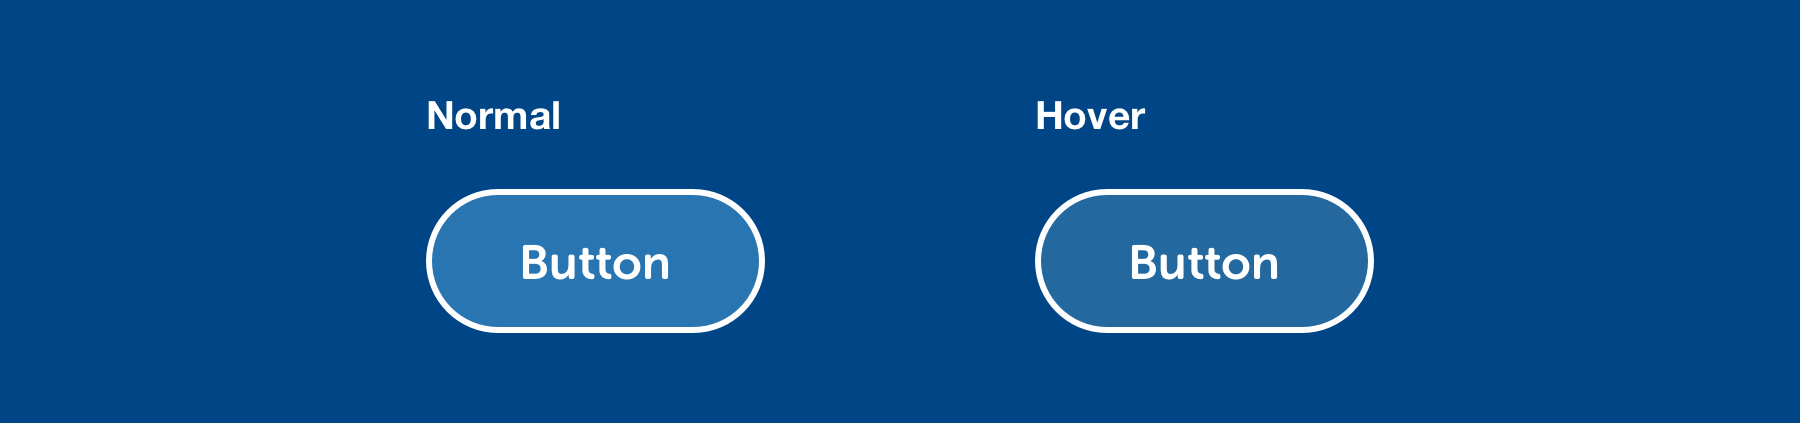
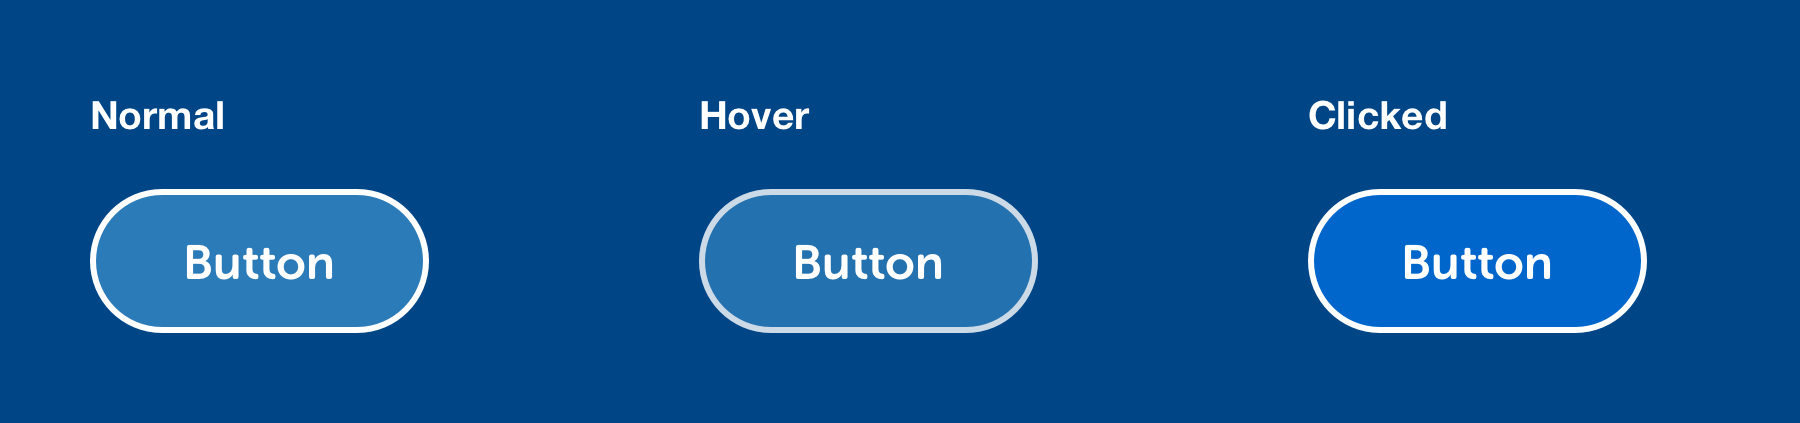
GitBook: [master] one page and 4 assets modified

diff --git a/website-patterns/buttons/buttons.md b/website-patterns/buttons/buttons.md
@@ -27,7 +27,7 @@ line-height: 24px;
 
 ### Light theme
 
-![](../../.gitbook/assets/primary-button%20%281%29.png)
+![](../../.gitbook/assets/primary-button%20%282%29.png)
 
 ```css
 /* Normal */
@@ -36,18 +36,19 @@ color: #FFF;
 
 /* Hover */
 background-color: #23699F;
+
+/* Disabled */
+background-color: #E5E5E5;
+color: #616161;
 ```
 
 ### Dark theme
 
-![](../../.gitbook/assets/primary-button-dark%20%281%29.png)
+![](../../.gitbook/assets/primary-button-dark.png)
 
 ```css
 /* Styling is as per 'light' theme plus */
 border: 2px solid #FFF;
-
-/* Hover */
-background-color: #003E79;
 ```
 
 ## Secondary button
@@ -113,7 +114,6 @@ border: 2px solid #FFF;
 ## Conversion button
 
 * Used on the penultimate screen of an acquisition, application or process journey, usually on a review or confirm screen.
-* This is the only button style that has a 'disabled' state.
 * The button is presented as disabled if the user needs to complete one or more actions on the review/confirm screen before completing the process.
 
 ### Light theme
